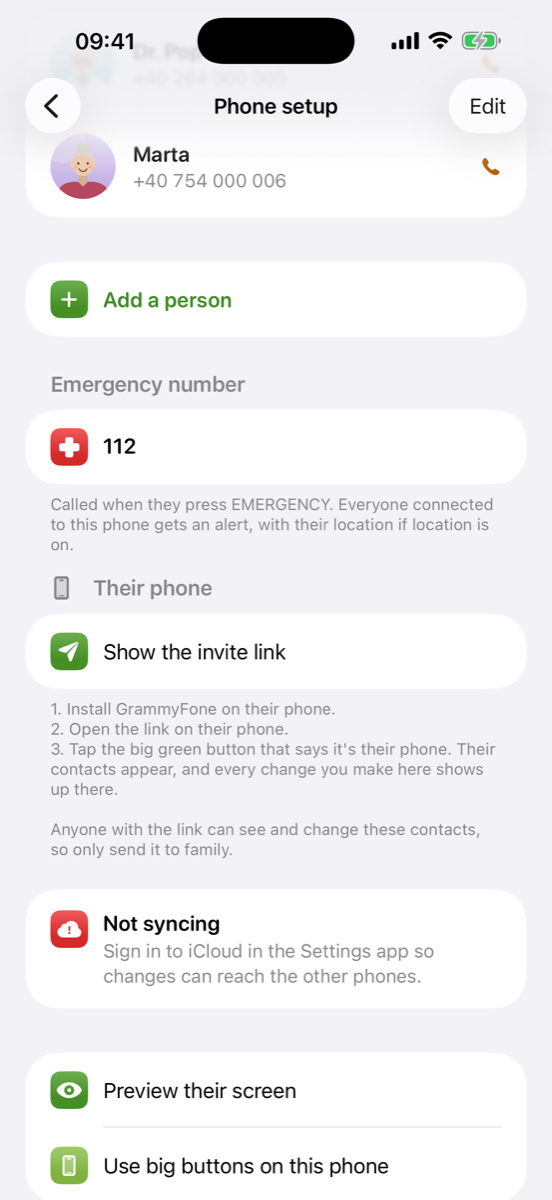
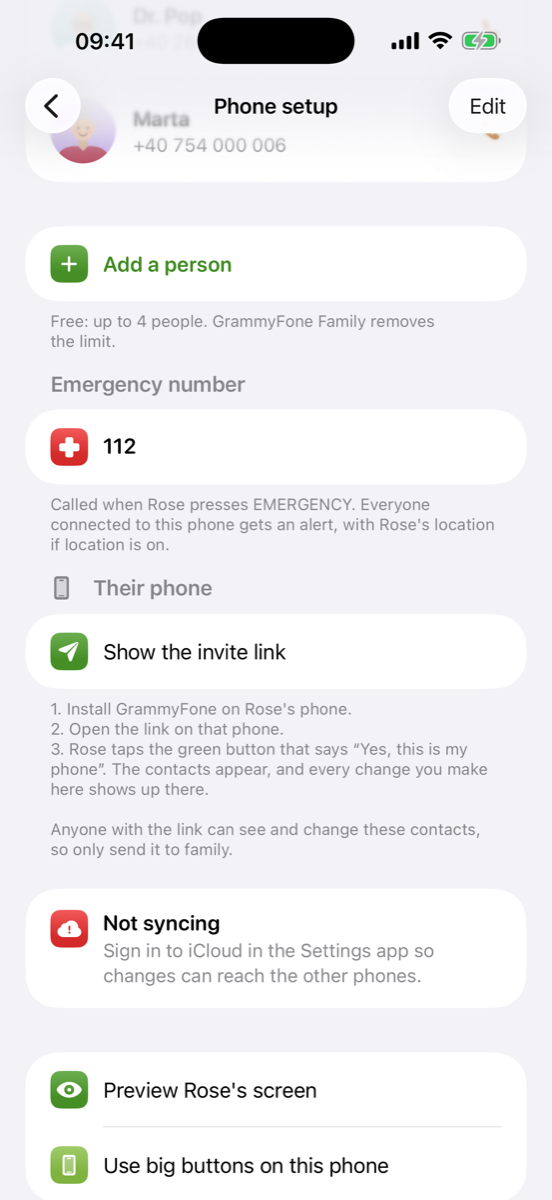
feat: say that extensions dial themselves, and refresh the screenshots
The app dials an extension after the call connects now, including for the
emergency number — a care home or surgery switchboard is where a senior's
contacts often live, and it is the one thing here that no other big-button app
does. Screenshots were a day stale: the home screen is a list of people, and
How it works stacks its two sides.

diff --git a/index.html b/index.html
@@ -98,7 +98,8 @@
       </div>
       <div class="cards">
         <article class="card"><div class="dot green" aria-hidden="true">&#9742;</div><h3>Big photo buttons</h3><p>A face to tap instead of a name to find. Phone call, FaceTime video or FaceTime audio, per person.</p></article>
-        <article class="card"><div class="dot red" aria-hidden="true">+</div><h3>Emergency, with location</h3><p>One button calls the emergency number and alerts the family with where they are.</p></article>
+        <article class="card"><div class="dot green" aria-hidden="true">&#8987;</div><h3>Extensions dial themselves</h3><p>A care home or a surgery switchboard often needs an extension. Add it to the number and GrammyFone waits, then dials it &mdash; nothing for them to key in.</p></article>
+        <article class="card"><div class="dot red" aria-hidden="true">+</div><h3>Emergency, with location</h3><p>One button calls the emergency number and alerts the family with where they are. It can dial an extension too.</p></article>
         <article class="card"><div class="dot orange" aria-hidden="true">&#9829;</div><h3>Widgets</h3><p>Put a loved one's photo on the Home Screen or Lock Screen and call with one tap.</p></article>
         <article class="card"><div class="dot green" aria-hidden="true">&#8635;</div><h3>Remote updates</h3><p>Several family members can help manage the same phone, each from their own iPhone.</p></article>
         <article class="card"><div class="dot orange" aria-hidden="true">Aa</div><h3>Readable everywhere</h3><p>Follows the text size and dark mode settings, with extra large layouts for the largest sizes.</p></article>
